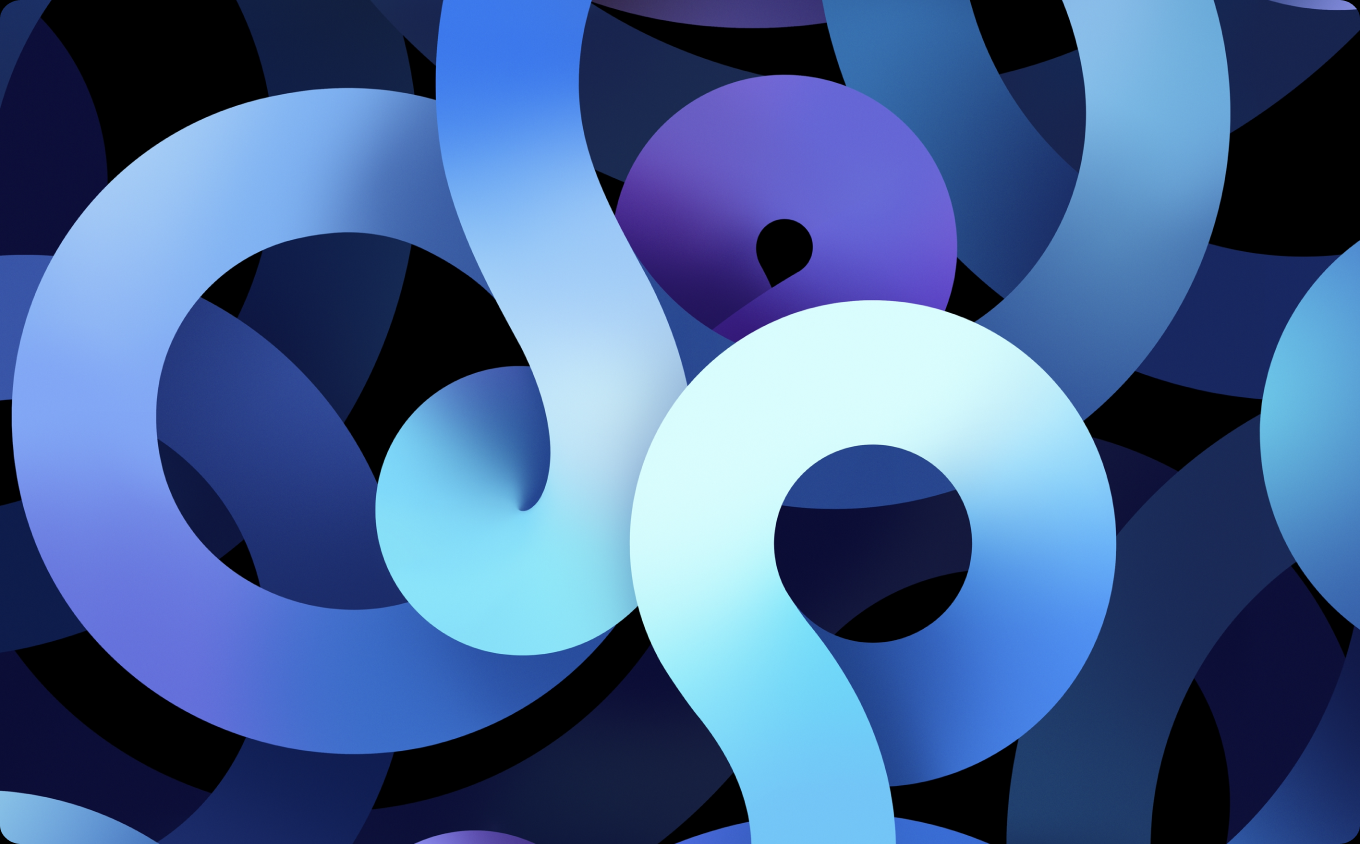
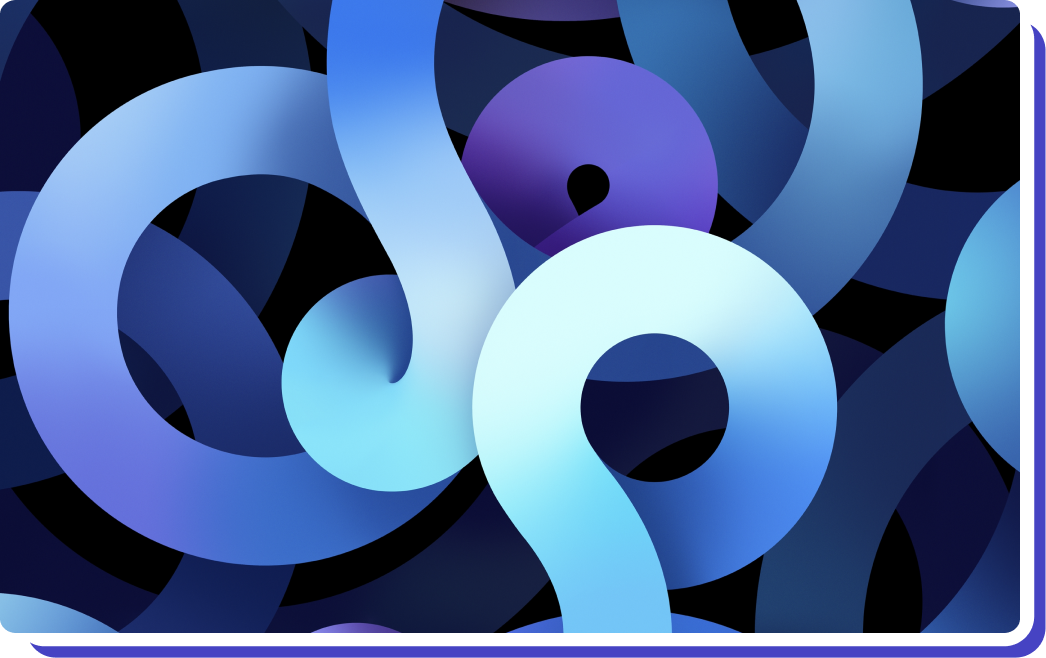
refactor: Herosection styling

diff --git a/src/components/HomePage/herosection/heroSection.css b/src/components/HomePage/herosection/heroSection.css
@@ -1,40 +1,35 @@
 @import url("https://fonts.googleapis.com/css2?family=Nunito&family=Poppins&display=swap");
 
-:root {
-  --clr-primary-10: hsl(205, 100%, 96%);
-  --clr-primary-5: hsl(205, 78%, 60%);
-  --transition: all 0.3s linear;
-}
-
-div.randomDesign {
-  position: relative;
-  max-width: 100%;
-  z-index: -500;
-}
-
 img.leftimg {
   position: absolute;
+  bottom: 50px;
   left: 0;
-  top: 200px;
-  width: 250px;
+  width: 150px;
+  pointer-events: none;
+  z-index: 0;
 }
 
 img.rightimg {
   position: absolute;
+  top: 50px;
   right: 0;
-  top: -300px;
-  width: 250px;
+  width: 150px;
+  pointer-events: none;
+  z-index: 0;
 }
 
 div.heroSec {
   word-wrap: normal;
   text-align: center;
   margin: 0 auto;
+  margin-bottom: 100px;
+  position: relative;
+  z-index: 5;
 }
 
 div.introSec {
-  padding-top: 200px;
-  padding-bottom: 80px;
+  margin-top: 150px;
+  margin-bottom: 100px;
 }
 
 h1.titleP {
@@ -45,8 +40,7 @@ h1.titleP {
   margin: 0;
 }
 
-p.about {
-  font-family: "Poppins", sans-serif;
+p.heroabout {
   font-size: 18px;
   line-height: 27px;
   margin: 10px auto 0;
@@ -58,48 +52,38 @@ button.hero-start {
   height: 47px;
   border: none;
   font-family: "Poppins", sans-serif;
-  color: #ffffff;
+  color: white;
   font-size: 18px;
   line-height: 27px;
-  background: #4643c3;
-  border: 2px solid #4643c3;
+  background: var(--blue);
+  border: 2px solid var(--blue);
   border-radius: 8px;
   margin: 35px 0 0;
   cursor: pointer;
-  transition: var(--transition);
+  transition: all 0.25s ease-in-out;
 }
 
 .hero-start:hover {
-  /* box-shadow: 0 2px 3px rgb(70, 67, 195, 0.5); */
   background: transparent;
-  color: white;
+  color: var(--text-color);
 }
 
 div.heroImgSec {
-  background-image: url(./assets/changepic.png);
-  background-size: cover;
   width: 51.02489019033675vw;
-  height: 32.09297218155198vw;
   margin: 0 auto;
   border-radius: 1.25rem;
   position: relative;
-  margin-bottom: 190px;
   display: block;
 }
 
 img.lowerimg {
-  width: 51.02489019033675vw;
-  height: 32.09297218155198vw;
-  position: absolute;
-  top: 15px;
-  left: 15px;
-  object-fit: contain;
+  width: 100%;
 }
 
-@media screen and (max-width: 790px) {
+@media screen and (max-width: 800px) {
   div.introSec {
-    padding-top: 150px;
-    padding-bottom: 50px;
+    margin-top: 100px;
+    margin-bottom: 50px;
   }
 
   h1.titleP {
@@ -107,7 +91,7 @@ img.lowerimg {
     line-height: 67px;
   }
 
-  p.about {
+  p.heroabout {
     width: 500px;
   }
 
@@ -117,57 +101,54 @@ img.lowerimg {
     height: 22.913616398243047vw;
   }
 */
-  img.lowerimg {
-    top: 10px;
-    left: 10px;
-  }
 
   img.leftimg,
   img.rightimg {
     width: 150px;
+    opacity: 0.7;
   }
 
-  img.rightimg {
-    top: -150px;
+  img.leftimg {
+    bottom: 0px;
   }
 }
 
-@media screen and (max-width: 595px) {
+@media screen and (max-width: 600px) {
   h1.titleP {
     font-size: 40px;
     line-height: 67px;
   }
 
-  p.about,
+  p.heroabout,
   button.hero-start {
     font-size: 15px;
   }
 }
 
 @media screen and (max-width: 550px) {
-  div.heroImgSec,
-  img.lowerimg {
-    width: 71.02489019033675vw;
-    height: 52.09297218155198vw;
+  div.heroSec {
+    padding: 0 20px;
+    margin-bottom: 50px;
+  }
+
+  div.introSec {
+    margin-top: 70px;
+    margin-bottom: 50px;
+  }
+
+  div.heroImgSec {
+    width: 80vw;
   }
 
   h1.titleP {
     line-height: 1;
     margin-bottom: 20px;
+    font-size: 32px;
   }
 
-  p.about {
+  p.heroabout {
+    font-size: 16px;
     max-width: 95%;
-  }
-
-  img.lowerimg {
-    top: 16.5px;
-    left: 7.5px;
-  }
-
-  img.leftimg,
-  img.rightimg {
-    width: 100px;
   }
 
   img.rightimg,

diff --git a/src/components/HomePage/herosection/herosection.js b/src/components/HomePage/herosection/herosection.js
@@ -1,26 +1,34 @@
-import React from "react";
+import React, { useContext } from "react";
 import "./heroSection.css";
-import backchange from "./assets/backchangepic.png";
-import leftimg from "./assets/light-left.png";
-import rightimg from "./assets/light-right.png";
+import heropic from "./assets/changepic.png";
+import leftimgLight from "./assets/light-left.png";
+import rightimgLight from "./assets/light-right.png";
+import leftimgDark from "./assets/dark-left.png";
+import rightimgDark from "./assets/dark-right.png";
 import { LinkifyContext } from "../../../context";
 
 export default function HeroSection(inputData) {
-  const { theme } = React.useContext(LinkifyContext);
+  const { theme } = useContext(LinkifyContext);
 
   return (
     <div className="heroSec">
+      <img
+        src={theme === "light-theme" ? leftimgLight : leftimgDark}
+        alt="designleft"
+        className="leftimg"
+      ></img>
+      <img
+        src={theme === "light-theme" ? rightimgLight : rightimgDark}
+        alt="designright"
+        className="rightimg"
+      ></img>
       <div className="introSec">
         <h1 className="titleP">{inputData.titleP}</h1>
-        <p className="about">{inputData.about}</p>
+        <p className="heroabout">{inputData.about}</p>
         <button className="hero-start">{inputData.start}</button>
       </div>
-      <div className="randomDesign">
-        <img src={leftimg} alt="designleft" className="leftimg"></img>
-        <img src={rightimg} alt="designright" className="rightimg"></img>
-      </div>
       <div className="heroImgSec">
-        <img src={backchange} alt="hero" className="lowerimg"></img>
+        <img src={heropic} alt="hero" className="lowerimg"></img>
       </div>
     </div>
   );

diff --git a/src/components/HomePage/header/HeaderElements.js b/src/components/HomePage/header/HeaderElements.js
@@ -1,34 +1,44 @@
 import styled from "styled-components";
 import { Link } from "react-router-dom";
 
-export const Container = styled.div`
+export const HeaderContainer = styled.div`
+  box-sizing: border-box;
+  height: 70px;
   display: flex;
   justify-content: space-between;
+  align-items: center;
   font-weight: bold;
-  margin-top: 29px;
-  margin-right: 112px;
-  margin-left: 128px;
+  padding-top: 30px;
+  padding-right: 100px;
+  padding-left: 100px;
   flex-wrap: wrap;
+  z-index: 10;
 
   @media (max-width: 1200px) {
     /* insert code later if required. */
   }
 
   @media (max-width: 1050px) {
-    margin-top: 15px;
-    margin-right: 15px;
-    margin-left: 15px;
+    padding-top: 15px;
+    padding-right: 30px;
+    padding-left: 30px;
   }
 
-  @media (max-width: 300px) {
-    justify-content: center;
+  @media (max-width: 400px) {
+    padding-right: 15px;
+    padding-left: 15px;
   }
 `;
 
 export const LogoText = styled.div`
-  font-size: 25px;
+  font-size: 30px;
   cursor: pointer;
   background-color: transparent;
+  font-family: "Nunito";
+
+  @media (max-width: 500px) {
+    font-size: 25px;
+  }
 `;
 
 export const ButtonGroup = styled.div`
@@ -44,9 +54,11 @@ export const LeftButton = styled.div`
   display: flex;
   align-items: center;
   justify-content: center;
-  padding: 3px 17px 5px 16px;
+  padding: 4px 16px;
   border-radius: 8px;
   transition: all 0.25s ease-in-out;
+  font-size: 13px;
+  min-width: 90px;
 
   :hover {
     background-color: var(--blue);

diff --git a/src/components/HomePage/header/Header.js b/src/components/HomePage/header/Header.js
@@ -4,7 +4,7 @@ import { LinkifyContext } from "../../../context";
 import { MdDarkMode, MdLightMode } from "react-icons/md";
 import {
   ButtonGroup,
-  Container,
+  HeaderContainer,
   LeftButton,
   LogoText,
   RightButton,
@@ -26,7 +26,7 @@ export default function Header() {
   }, [theme]);
 
   return (
-    <Container>
+    <HeaderContainer>
       <StyledLink to="/">
         <LogoText className={`${theme} transition`}>Linkify</LogoText>
       </StyledLink>
@@ -63,6 +63,6 @@ export default function Header() {
           )}
         </div>
       </ButtonGroup>
-    </Container>
+    </HeaderContainer>
   );
 }

diff --git a/src/App.css b/src/App.css
@@ -1,3 +1,5 @@
+@import url('https://fonts.googleapis.com/css2?family=Poppins&display=swap');
+
 :root {
   --blue: #4643c3;
   --text-secondary: var(--clr-grey-5);
@@ -24,8 +26,7 @@
 }
 
 body {
-  font-family: -apple-system, BlinkMacSystemFont, "Segoe UI", Roboto, Oxygen,
-    Ubuntu, Cantarell, "Open Sans", "Helvetica Neue", sans-serif;
+  font-family: "Poppins";
   font-size: 0.875rem;
   transition: all 0.25s ease-in-out;
   padding: 0;

diff --git a/src/pages/HomePage/index.js b/src/pages/HomePage/index.js
@@ -14,7 +14,7 @@ function Homepage() {
     <div>
       <Header />
       <HeroSection
-        titleP="All your links in one place."
+        titleP="All your links in one place"
         about="The only link you'll ever need to connect with everyone in the world."
         start="Get Started"
       />

diff --git a/src/components/HomePage/header/Header.css b/src/components/HomePage/header/Header.css
@@ -14,3 +14,9 @@
 .transition {
   transition: all 0.25s ease-in-out;
 }
+
+@media screen and (max-width: 500px) {
+  .toggle-container {
+    padding: 4px;
+  }
+}
